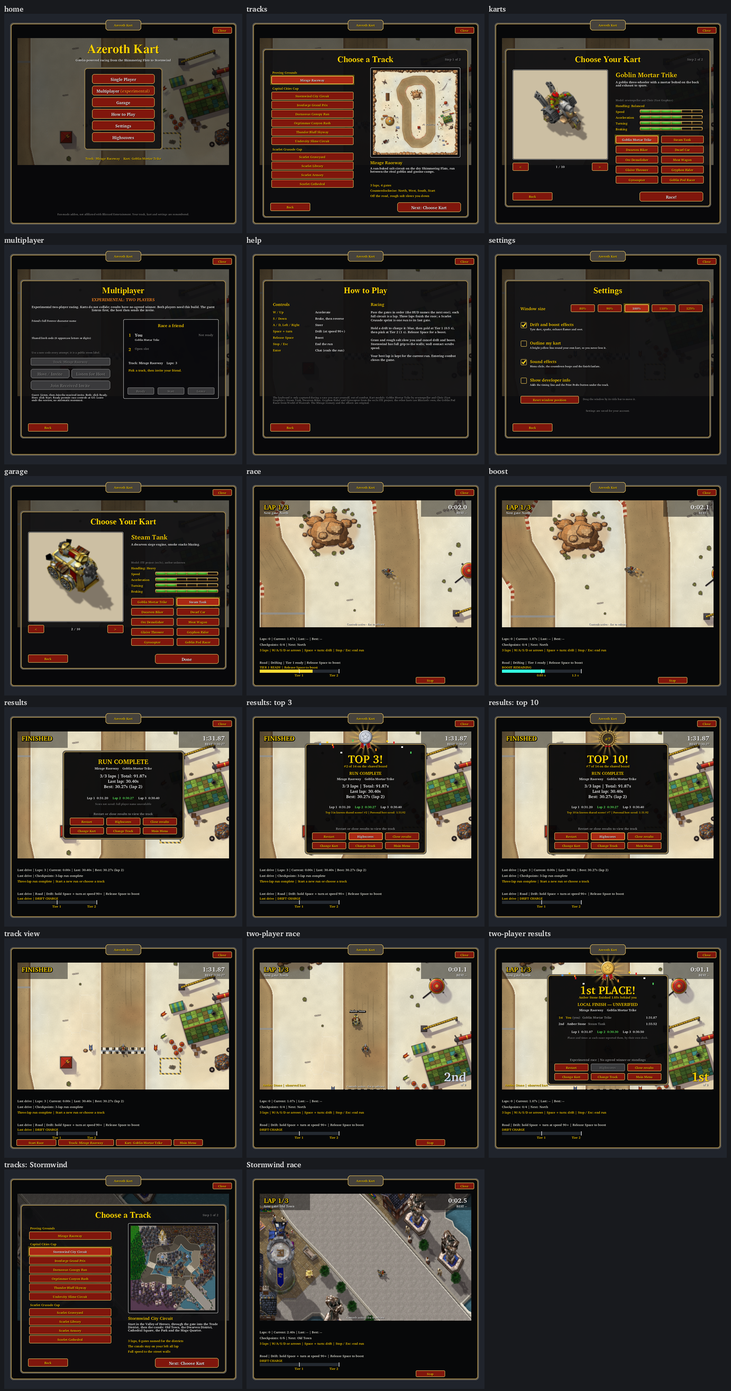
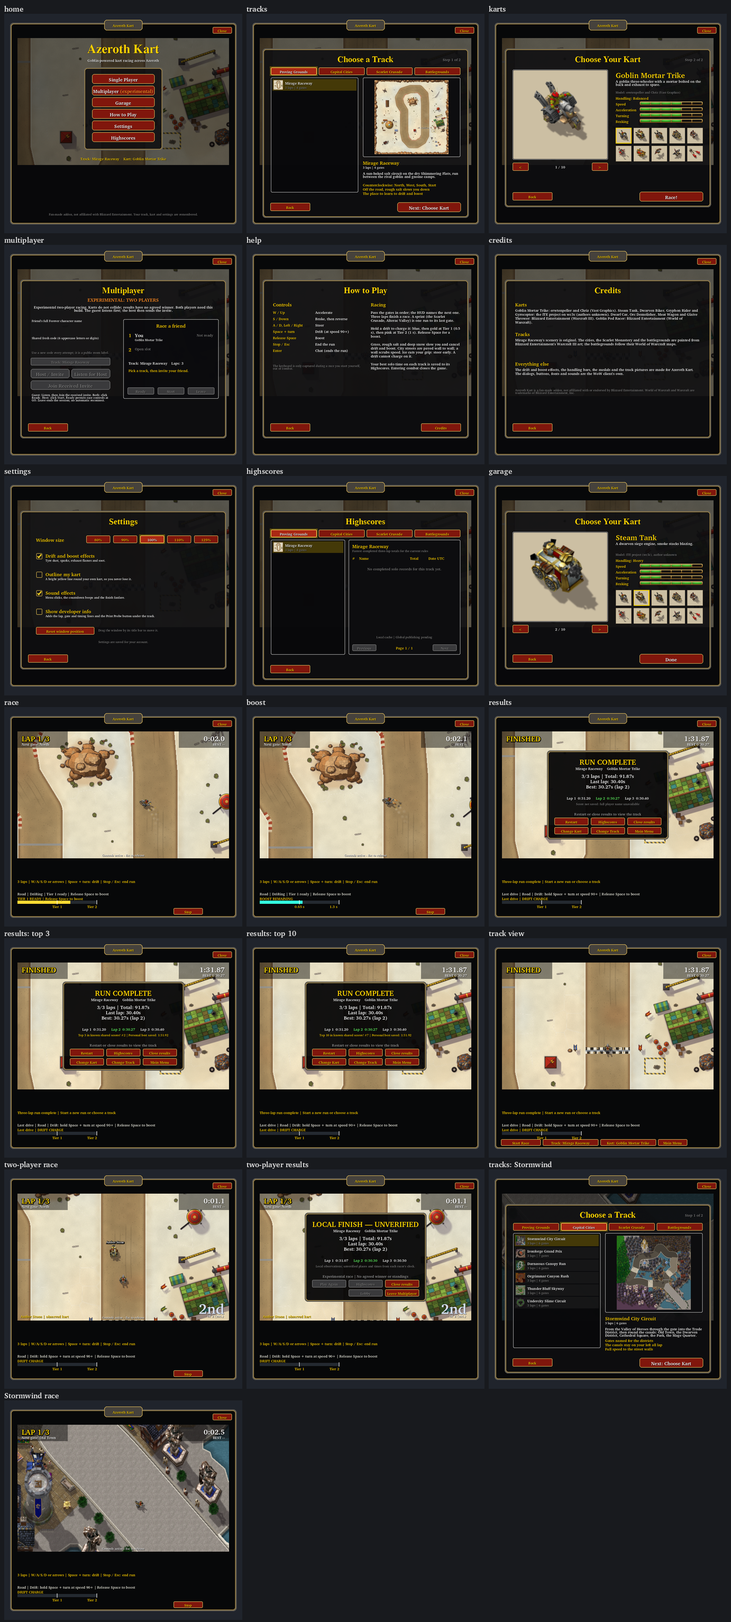
docs: menus for launch: audit, design and before/after
The audit of every screen (why the overlap got through, the new layout
check, each screen's findings), the design of the track and kart
browsers, the boards and the lines under the track, the proposals not
built (lobby track picker, Race Again, Next Track, multiplayer steps),
the contract and budget for Codex, the two atlases' provenance, the test
plan entry and the client check (NOT RUN). Before/after pictures and the
review sheets are rendered with stand-in fonts at the client's widths.

Claude-Session: https://claude.ai/code/session_01HqjE6kQMBEZCvc46ioimvY

diff --git a/docs/art/ui/menu-launch.md b/docs/art/ui/menu-launch.md
@@ -1,0 +1,177 @@
+# Menus for launch: audit and proposal
+
+**Status (2026-10-29):** proposed by Claude on `claude/menu-launch`, based on Codex's installed
+`codex/alterac-integration` (`fcd1273`). Everything below is checked offline only; in WoW Forever it is
+**NOT RUN** ([client check](#client-check-not-run)). The owner picks what goes into the launch; Codex
+reviews and integrates. The minimap icon is parked, as the owner asked.
+
+![Before and after: track, kart and highscores screens](menu-launch-menus.png)
+
+![Before and after: under the track, How to Play, main menu and the new Credits page](menu-launch-race-help.png)
+
+These pictures come from `scripts/preview_ui.py` (stand-in fonts measured at the client's widths, see
+below); they are layout pictures, not screenshots. The highscores board in them is a stand-in board.
+
+## What went wrong
+
+The owner's screenshot of the installed build: on **Choose a Track**, Alterac Valley's button sits under
+**Back**, and Arathi Basin's description runs into its facts. Three things let it through:
+
+1. **The list had no limit.** Each course added a button to a dialog of fixed height. The fourteenth
+   course, Alterac Valley (added by Claude's Alterac sprint), ran past the bottom.
+2. **Nothing checked where things land.** The tests count widgets and check behaviour. The preview picture
+   drew the screen, but its stand-in font measured about 13% narrower than the client's Friz Quadrata, so
+   copy wrapped onto fewer lines than in game; and the track screen's picture was not looked at again after
+   Alterac's row was added.
+3. **Copy had no measured limits.** Blurbs and facts were any length.
+
+## The check that now catches it
+
+`python scripts/preview_ui.py --check` (about five seconds; writes nothing unless asked) visits every menu
+screen with every track and every kart chosen, and the board of every track. It reports, per dialog: a
+control or text overlapping another, text cut short by its line limit, text hidden under a card drawn above
+it, and a control leaving its dialog. It exits 1 on any.
+
+- Text is measured as the client draws it: Friz Quadrata at 1.13 times its nominal size, calibrated on the
+  owner's screenshot. With that, both the client's font and the stand-in break every line of Arathi Basin's
+  copy where the client did. `--client-fonts DIR` uses the client's own `frizqt__.ttf` and `morpheus.ttf`
+  (extracted to `local-artifacts/`, never committed); the stand-ins give the same result.
+- **Installed build: 19 faults** (Alterac Valley under Back with each track chosen; Arathi Basin's and
+  Darnassus's copy overlapping). **Proposal: 0.**
+- Proposed rule: run it before handing over any menu, HUD or copy change ([test plan](../../TEST_PLAN.md)).
+
+## Audit, screen by screen
+
+| Screen | Finding | Proposal | State |
+|---|---|---|---|
+| Choose a Track | One button per course; the 14th is already past the dialog, and every new map adds one | Cup tabs, a pooled list of nine rows a page (paged beyond) with thumbnails, laps and gates; the details card with "Your best" | Prototyped |
+| Choose Your Kart, Garage | Ten name buttons fill the two-by-five grid; an eleventh kart has no room | Portrait grid, fifteen a page (paged beyond), icons made from each kart's own sheet, name in a tooltip | Prototyped |
+| Highscores | One **Track** button steps through fourteen boards one click at a time | The same cup tabs and track list beside the board | Prototyped |
+| Multiplayer | The lobby's **Track** button steps through fourteen tracks; the instructions read like a protocol | A track picker that opens inside the lobby (opening another screen leaves the session, so it must stay in the lobby); numbered steps | Proposed |
+| Race, under the track | Four lines repeat the race HUD and read like a debug console | The lap and gate lines only with developer info (the staged grid keeps its instruction line); the status line, the drift line and the meter stay | Prototyped |
+| How to Play | Out of date: only the Scarlet sprints, "Stormwind has full grip", "your best lap is kept for the current run"; no ice, deep snow or saved highscores. The credits paragraph misses most karts' and all the tracks' art | Rules rewritten; credits moved to a **Credits** page: every kart's model credit, the tracks' art, the Blizzard notice | Prototyped |
+| Main menu | The tagline, "from the Shimmering Flats to Stormwind", is out of date | "Goblin-powered kart racing across Azeroth"; later a **Race Again** quick start (last track and kart) | Tagline prototyped; quick start proposed |
+| Results | Works | Later: **Next Track** in the same cup | Proposed |
+| Settings | Works | A "Show minimap button" box when the icon comes | Parked |
+
+## The design
+
+### Choose a Track
+
+- **Cup tabs** along the top, in `Courses.CUPS` order, labelled by `Menu.CUP_LABELS` (a cup without one
+  shows its own name). Up to `Menu.CUP_TABS` (5) fit one row; a sixth cup needs a second row or tab
+  paging (not built).
+- **The list:** the shown cup's tracks, then its coming-soon courses (greyed, "Soon"), `Menu.TRACK_ROWS`
+  (9) a page, with **<** and **>** and "Page 1 of 2" only when a cup holds more. Each row: a 36-pixel
+  thumbnail, the name, and "3 laps | 6 gates" or "Sprint | 8 gates". The chosen track's row is gold. The
+  list opens on the chosen track's cup and page.
+- **The rows are pooled:** nine rows show any cup's page, so adding tracks or cups adds pages, never
+  widgets or height.
+- **Details:** the preview (280 pixels for a 320 cell, `Menu.PREVIEW_SIZE`), the name, the summary with
+  "Your best: 1:31.92" when the player has a time (one board read on a deliberate refresh), a blurb of at
+  most three lines and three one-line facts. `--check` enforces those limits; the copy was rewritten to fit
+  and keeps every reviewed keyword.
+
+### Choose Your Kart and the Garage
+
+- The turntable, name, description, credit and handling bars stay. The ten name buttons become **portrait
+  tiles**: five a row, `Menu.KART_TILES` (15) a page, paged beyond, pooled like the track rows.
+- Each tile shows the kart from its own sheet at the turntable's starting angle, on the stage's sand
+  colour, framed dark, or gold for the chosen kart. The name shows in a tooltip, and on the tile itself if
+  the icon picture cannot load.
+
+### Highscores
+
+- The same tabs and track list (a second pooled list) on the left; the board on the right: the track's
+  name, its rule line, ten rows, the scope line and the pages. It opens on the driving track's board (or
+  the results' run). Choosing a board never selects a driving track; each open, pick or page reads the
+  board once.
+
+### Under the track
+
+- Developer info off: the status line (controls, refusals), the drift and surface line and the drift meter.
+  Developer info on: also the lap, gate and timing lines. On a staged two-player grid the gate line stays,
+  because it carries "Hold W/Up for GO".
+
+### How to Play and Credits
+
+- Rules: gates and sprints (the Scarlet Crusade and Alterac Valley), the drift tiers, grass, rough salt and
+  deep snow, paved cities, ice (steer early; no drift charge on it), saved highscores, combat.
+- **Credits**, from How to Play: every kart's model credit as the [asset ledger](../ASSET_SOURCES.md)
+  records it, the tracks' art (Mirage original; the rest painted from Blizzard's Warcraft III art, the
+  battlegrounds following their World of Warcraft maps), the made-for-the-game pictures, the client's own
+  dialogs, fonts and sounds, and the fan-made/trademark notice. A test checks every kart in the roster is
+  named there. How the owner wants to be credited is his call.
+
+## Not built yet (for the owner to choose)
+
+- **Lobby track picker:** a pop-up list inside the multiplayer screen, setting only `Menu.lobbyTrackId`
+  (which the existing Host and rematch actions already send). Opening another screen from the lobby leaves
+  the session (`Menu.Show`), so it cannot reuse the track screen without a session change from Codex.
+- **Race Again** on the main menu: the remembered track and kart straight to the countdown, the same call as
+  **Race!**.
+- **Next Track** on the results: the next track in the same cup, to Choose Your Kart or straight to the
+  countdown.
+- **Multiplayer copy** as numbered steps (both enter the same fresh code; guest listens, host invites;
+  both Ready; host Start), keeping "experimental".
+- **Minimap icon:** parked.
+
+## Contract and budget
+
+Scope: `Menu.lua` and `tests/test_menu.lua` (Claude); `tests/test_ui.lua` budget constants and its Test
+Oval list check (shared, visual counts only); `scripts/preview_ui.py`; two new build scripts and their
+atlases. No simulation, race, session, score or saved-data behaviour changes.
+
+- **Removed:** `Menu.view.trackButtons`, `soonButtons`, `kartButtons`, `highscoreTrack`;
+  `Menu.highscoreTrackIndex`.
+- **Added:** `Menu.TrackRow(id)` (turns the shown list to a track's cup and page; its row) and
+  `Menu.KartTile(id)`; `Menu.view.trackList`, `boardList`, `kartTiles`; `Menu.boardTrackId` and
+  `Menu.boardRequest` (the board shown, and the results' request); `Menu.cupRows`, `Menu.trackSummary`;
+  `Menu.TRACK_ROWS`, `CUP_TABS`, `CUP_LABELS`, `TRACK_THUMBS`, `KART_ICONS`, `KART_TILES`,
+  `PREVIEW_SIZE`, `CREDITS`. Each `Menu.TRACKS` entry gains `laps` and `gates`; a test checks them
+  against every built course.
+- **Objects:** 93/99/151 → **121 frames, 213 textures, 230 font strings**, all created once with the
+  window, and now the same for any number of tracks, cups and karts (before, each track and each kart
+  added a frame). Two lists of four tabs, a card, two page buttons, nine rows (a button, three textures,
+  three labels) and a page label; fifteen tiles (a button, four textures, a label); the board's card;
+  the Credits page.
+- **Texture memory:** `TrackThumbs.tga` 1 MiB when a track list first shows; `KartIcons.tga` 2 MiB
+  when the kart screen first opens. Each loads once; a refused load is not retried.
+
+## New pictures (made from the game's own, no new art)
+
+- `Assets/UI/KartIcons.tga` (1024×512, 128-texel cells, eight a row, room for 32 karts) by
+  `scripts/build_kart_icons.py`: each kart's own sheet's frame for a heading of 315°, centred and, when
+  far from 104 texels across, scaled to it. Its pixels are the sheets', so each cell keeps its sheet's
+  source, terms and credit.
+- `Assets/UI/TrackThumbs.tga` (512×512, 64-texel cells, eight a row, room for 64 tracks) by
+  `scripts/build_track_thumbs.py`: the middle square of each track's preview, averaged down in whole
+  blocks. Each cell keeps its preview's source and terms.
+- Both scripts have `--check` (exact bytes) and `--preview OUT.png`.
+
+## Tests run (offline)
+
+- `python scripts/test_lua.py --runtime lua51 --tests <each>`: all 53 test files pass.
+- `python scripts/test_lua.py --runtime lua54 --tests menu ui`: pass.
+- `python scripts/preview_ui.py --check`, and with `--client-fonts`: 0 faults (the installed build: 19).
+- `python scripts/build_kart_icons.py --check`, `python scripts/build_track_thumbs.py --check`: pass.
+- New in `test_menu`: the summaries against every built course; a row per track in its cup; thumbnail
+  and icon cells; pooled rows and tiles (no new objects when turning cups, pages or karts); a refused icon
+  atlas showing names, not retried; coming-soon rows disabled and inert; boards picked from the list
+  (never selecting a driving track); the lines under the track with and without developer info and on a
+  staged grid; How to Play to Credits and back, every kart credited.
+
+## Client check (NOT RUN)
+
+Fully restart the client after installing (two new pictures). Then:
+
+1. **Single Player:** four cup tabs; each cup's rows with thumbnails; Battlegrounds lists Warsong Gulch,
+   Arathi Basin and Alterac Valley inside the list, clear of **Back**; Arathi's copy reads in separate
+   lines.
+2. **Next:** the kart portraits show each kart; the mouse over one names it; a click chooses it and
+   frames it in gold.
+3. **Highscores:** tabs, list and board; a long name ends in "..."; the dates fit.
+4. A race: under the track only the gold status line, the drift line and the meter; with developer info,
+   the lap, gate and timing lines too.
+5. **How to Play → Credits → Back.**
+6. `/akart probe` with developer info: 121/213/230.

diff --git a/docs/art/ui/front-end.md b/docs/art/ui/front-end.md
@@ -2,6 +2,8 @@
 
 **Status (2026-10-22):** reviewed Claude UI `1b2d3d5` is integrated with Codex backend `192c6de` by merge `6cd611a` on `codex/ui-backend-integration`. Claude's isolated preference fix `4ffe184` is retained as `9b22f12`; city merge f9f2af0 now includes reviewed Stormwind from78d97a1, followed by the protected background-load transaction. The implemented interfaces are in [API_CONTRACTS](../../API_CONTRACTS.md#implemented-front-end-menus-race-hud-and-results). Its appearance and behaviour in WoW Forever are **NOT RUN**; see [the client check](#client-check-not-run).
 
+**Launch refresh (2026-10-29, proposed on `claude/menu-launch`, NOT RUN):** the track screen's list ran past its dialog at fourteen courses. Cup tabs and pooled, paged track lists with thumbnails (the track screen and Highscores), a pooled portrait grid for the karts, the lap and gate lines under the track only with developer info, rewritten How to Play and a Credits page, and a layout check (`preview_ui.py --check`) that walks every screen. The rows below describe it; the audit, the before/after pictures and the open proposals are in [menu-launch](menu-launch.md).
+
 The owner asked for "the ready to ship UI": clear Single Player and Multiplayer choices, and selecting maps and karts. He chose:
 
 - the client's own **Classic WoW dialogs** style;
@@ -32,17 +34,18 @@ open window ─► Main menu ─► Single Player ─► Choose a Track ─► C
 | Screen | Offers |
 |---|---|
 | Main menu | The "Azeroth Kart" title, then **Single Player**, **Multiplayer (soon)**, **Garage**, **How to Play** and **Settings**, with the current track and kart named underneath |
-| Choose a Track | Mirage Raceway and Test Oval, each with a preview picture, a short description and its facts (3 laps, 4 gates, direction, off-road). Choosing one applies it at once; **Next: Choose Kart** continues |
-| Choose Your Kart | A turntable that spins the chosen kart's own 64-heading sheet (the Gryphon Rider beating its wings, then gliding), arrows and a grid of all ten karts (five rows of two), the kart's description and model credit, its handling profile's name and four gold-framed **stat bars**, Speed, Acceleration, Turning and Braking, filled from the profile's actual values ([below](#new-art-kart-stat-bars); `claude/kart-stat-bars`). **Race!** starts the countdown |
+| Choose a Track | Cup tabs (Proving Grounds, Capital Cities, Scarlet Crusade, Battlegrounds) over the shown cup's tracks, nine rows a page with a thumbnail, the name and "3 laps \| 6 gates" (or "Sprint \| 8 gates"); coming-soon courses greyed. Beside them the chosen track's preview, name, summary with the player's best, a blurb of up to three lines and three one-line facts. Choosing one applies it at once; **Next: Choose Kart** continues ([launch refresh](menu-launch.md)) |
+| Choose Your Kart | A turntable that spins the chosen kart's own 64-heading sheet (the Gryphon Rider beating its wings, then gliding), arrows and a grid of portrait tiles (five a row, fifteen a page; the name in a tooltip; [launch refresh](menu-launch.md)), the kart's description and model credit, its handling profile's name and four gold-framed **stat bars**, Speed, Acceleration, Turning and Braking, filled from the profile's actual values ([below](#new-art-kart-stat-bars); `claude/kart-stat-bars`). **Race!** starts the countdown |
 | Garage | The same kart choice from the main menu, with **Done** instead of Race! |
 | Multiplayer | **COMING SOON**. Disabled **Host a Race** and **Join a Race**, a disabled lobby preview (you, an open slot, track, Ready/Start/Leave), and how to help with today's connection test (`/akart net help`) |
-| How to Play | The controls and the racing rules, plus the model credits |
+| How to Play | The controls and the racing rules; **Credits** opens a page with every kart's model credit, the tracks' art and the Blizzard notice |
+| Highscores | The same cup tabs and track list as the track screen beside the chosen board: its rule line, ten rows (the player's in gold), the scope and pages |
 | Settings | Window size (80–125%; sizes that would not fit the screen are disabled), drift and boost effects, **Outline my kart** (a bright yellow line round your own kart; [outlines](../karts/outlines.md), since 2026-10-23), sound effects, developer info (the timing line and Print Probe), and reset window position. The window can be dragged by its title bar |
 | Race | Big **LAP x/3** and the next gate at top left. The clock in tenths and the best lap at top right. "Controls active - Esc to release" at the bottom. A large gold 3-2-1-GO. **Stop** sits away from where Start was, so a double click cannot start and stop. In a two-player race, the place ("1st"/"2nd", "of 2") at bottom right and the friend's name over their kart ([race screens](#race-screens-and-score-celebrations), `claude/race-screens`) |
 | Results | A dark dialog with the result title, track and kart, total/last/best times and every lap time, the fastest in green. **Restart**, **Highscores** (the run's board at the player's page) and **Close results**, then **Change Kart**, **Change Track** and **Main Menu**. A top-ten best on the shared board, or a two-player place, adds a banner, a medal or wreath on a sunburst and confetti; a two-player race lists both racers ([race screens](#race-screens-and-score-celebrations)) |
 | Track view (after Close results) | The frozen run and its HUD, with **Start Race**, **Track**, **Kart** and **Main Menu** on the bar |
 
-The UI's own HUD lines keep their rows and text: laps, checkpoints, status, drift feedback and the meter. They gain colours: white detail, gold status. The timing line shows only with developer info.
+The UI's own HUD lines keep their rows and text: laps, checkpoints, status, drift feedback and the meter. They gain colours: white detail, gold status. The timing line shows only with developer info; since the launch refresh, so do the lap and gate lines (they repeat the race HUD), except the gate line on a staged two-player grid.
 
 ## Look: the client's own dialogs
 

diff --git a/docs/API_CONTRACTS.md b/docs/API_CONTRACTS.md
@@ -1036,6 +1036,18 @@ On `claude/arathi-v2` (base Codex's `codex/arathi-integration` `1fbea6b`, instal
 - **Fewer fences (painting only, after the owner's second look):** the painted timber fence is left out along eight stretches of the street's edge he lined in red (`open_edges` in the layout: a side of the lap from one place to another; 87% of the fence), so the cliffs, the river and the long grass beyond the verge mark the edge there. No contract change: the walls (`wallRadius`, `wallVertices`, narrows, plazas) and `Battlegrounds.lua` are byte-identical, trackVersion stays 2, and collision never reads the picture. A kart still stops where the fence stood; whether that reads as natural in the client is NOT RUN (if the owner would rather karts run out onto slow grass there, that is a geometry and physics change for Codex).
 - **Codex-owned tests, pins only (for review):** `test_peer_session` (Arathi `trackVersion` 2; 1 incompatible), `test_multiplayer_integration` (the offer's `trackVersion` 2), `test_arathi_guide` (Arathi hands no route to the arrow: the guide-round-a-solid regression keeps Arathi's geometry with the yard paved, as version 1 had it, and its route from the data). A failure already on `codex/arathi-integration` is fixed in `test_dungeon` (the Track button now steps from Warsong to Arathi, then to Mirage).
 
+### Proposed: menus for launch (Claude, `claude/menu-launch`, 2026-10-29, for Codex)
+
+The owner found Alterac Valley's track button under **Back** in the installed build and asked for the whole menu to be refined for launch, with "a lot more maps and karts ahead". Presentation only; the [audit and design](art/ui/menu-launch.md) has the details and before/after pictures. Client behaviour is **NOT RUN**.
+
+- **Scope.** `Menu.lua` and `tests/test_menu.lua` (Claude). Shared, for review: `tests/test_ui.lua`'s menu budget constants and its Test Oval check (now: no row in any cup's list); `scripts/preview_ui.py` (the layout check). New: `scripts/build_kart_icons.py`, `scripts/build_track_thumbs.py` and their atlases `Assets/UI/KartIcons.tga`, `Assets/UI/TrackThumbs.tga` (made from the existing kart sheets and track previews). No UI.lua, simulation, race, session, score or saved-data change.
+- **Track screen and Highscores.** One pooled track list each: the cups as tabs (`Courses.CUPS`, labels `Menu.CUP_LABELS`, at most `Menu.CUP_TABS`), the shown cup's tracks then its coming-soon courses as `Menu.TRACK_ROWS` (9) rows a page, paged beyond. `Menu.cupRows(cupId)` lists a cup's rows; `Menu.trackSummary(track)` is "3 laps | 6 gates" or "Sprint | 8 gates" from new `laps`/`gates` fields in `Menu.TRACKS` (checked against every built course). `Menu.TrackRow(id)` turns the shown list to a track's cup and page and returns its row (tests). Highscores keeps `Menu.highscorePage`, `Menu.ShowBoard(trackId)` and one `SoloRecords.GetView` per open, pick or page; the board shown is `Menu.boardTrackId` (the results ask through `Menu.boardRequest`), replacing `Menu.highscoreTrackIndex` and the cycling `Menu.view.highscoreTrack`. Choosing a board never calls `UI.SelectTrack`.
+- **Kart screen.** `Menu.KART_TILES` (15) pooled portrait tiles a page, cells of `Menu.KART_ICONS` in `Presentation.KART_ORDER`; `Menu.KartTile(id)` returns a kart's tile (tests). `Menu.view.trackButtons`, `soonButtons` and `kartButtons` are gone.
+- **Under the track.** `Menu.Sync` shows `UI.lapHud` and `UI.checkpointHud` only with developer info, and the checkpoint line also on a staged grid (it carries "Hold W/Up for GO"). Their text, and the code that writes it, are unchanged.
+- **Copy.** How to Play's rules are rewritten; a **Credits** page (`Menu.CREDITS`) is reached from it; the tagline changes.
+- **Counts.** 93/99/151 → **121 frames, 213 textures, 230 font strings**, created with the window and now independent of the catalogue's size: two lists (four tabs, a card, two page buttons, nine rows of a button, three textures and three labels, a page label), fifteen tiles (a button, four textures, a label), the board's card and the Credits page. Texture memory: 1 MiB thumbnails, 2 MiB icons, each loaded once on first use.
+- **For Codex.** The lobby's track choice still steps with `Courses.next`; a picker inside the lobby is proposed, not built, because `Menu.Show` leaves the session when the lobby opens another screen.
+
 ### Proposed: Arathi Basin, a Battlegrounds Cup circuit (Claude, 2026-10-28, for Codex)
 
 On `claude/arathi-basin` (base `claude/warsong-v3` `5cee515`). Listed as **coming soon**: nothing builds or races it until Codex assigns its IDs. No Circuit, Physics, Checkpoints, protocol or score code change. Client NOT RUN. [Sheet](art/tracks/arathi-basin.md).

diff --git a/docs/TEST_PLAN.md b/docs/TEST_PLAN.md
@@ -206,6 +206,14 @@ On `claude/warsong-layout` (Warsong Gulch, listed as coming soon; focused: `pyth
 
 `build_battlegrounds.py` also checks what `LayeredTrack.new` checks at load, the dungeons' rules on each floor (no invisible wall, rooms that do not meet stay apart, gates from wall to wall), the new ramp rule (a room meets a ramp only where its own floor leaves it), and that no model that is not solid stands where the karts drive. The look, the roofs and their fades, the arrow, the drive and a two-player race on Warsong in the client are NOT RUN; Warsong cannot be selected in the client until Codex registers it.
 
+On `claude/menu-launch` (the menus for launch; focused: `python scripts/test_lua.py --runtime lua51 --tests menu ui presentation`, then the full Lua 5.1 suite; layout: `python scripts/preview_ui.py --check`; art bytes: `python scripts/build_kart_icons.py --check` and `python scripts/build_track_thumbs.py --check`):
+
+- **Layout check, for every menu, HUD or copy change:** `scripts/preview_ui.py --check` (about five seconds, writes nothing) walks every menu screen with every track and every kart chosen and every track's board, measuring text at the client's widths. It fails on a control or text overlapping another in its dialog, text cut short by its line limit, text hidden under a card drawn above it, or a control leaving its dialog. The installed build before this slice: 19 faults (Alterac Valley under Back; Arathi Basin's and Darnassus's copy). `--client-fonts DIR` uses the client's own fonts from `local-artifacts/` (never committed); the stand-ins give the same result.
+- `tests/test_menu.lua`: each track's "laps | gates" summary against its built course; one row per track in its own cup; the rows' thumbnail cells and the tiles' icon cells; pooled rows and tiles (no objects created turning cups, pages or karts); a refused icon atlas showing the karts' names, not retried; coming-soon rows disabled and inert; boards chosen from the list without selecting a driving track, each with its rule line; the lines under the track with and without developer info and on a staged grid; How to Play to Credits and back, every kart in the roster credited. The budget becomes 121/213/230, the same for any number of tracks, cups and karts.
+- `tests/test_ui.lua`: the same budget (the menus' constants; cups add no widgets now) and the retired Test Oval absent from every cup's list. Codex's assertions are unchanged.
+
+The menus in the client are NOT RUN; see [the launch refresh's client check](art/ui/menu-launch.md#client-check-not-run).
+
 ## Current front-end slice (proposed, `claude/ui-flow`)
 
 Focused command: `python scripts/test_lua.py --runtime lua51 --tests menu ui presentation`; art bytes: `python scripts/build_ui_art.py --check`. `tests/test_menu.lua` runs the addon against a widget mock that passes Show/Hide on to child frames, like the client. It covers the main menu and one dialog at a time; browsing without changing the run, track or kart; the Single Player flow, including a refused start; every results path, the track view and the lap list; the garage turntable; settings (sizes that do not fit, effects off, sound mute); saved preferences, failed restores and unknown or newer records; the coming-soon lobby and a mapped PeerSession view; Alt+Z versus a real close; the combat track restore; the build fallback; and missing templates. `tests/test_ui.lua` keeps Codex's assertions; only its counts, module list, results-panel size and a Lua 5.4 `unpack` call changed. Explicit counts become 65 frames/160 textures/79 font strings (11/151/13 without the front end). The menus' client appearance and sounds are NOT RUN; see [the front-end client check](art/ui/front-end.md#client-check-not-run).

diff --git a/docs/art/ASSET_SOURCES.md b/docs/art/ASSET_SOURCES.md
@@ -88,6 +88,8 @@ The kart screen's stat-bar atlas, `addon/AzerothKart/Assets/UI/StatBars.tga` (20
 
 The results' celebration atlas, `addon/AzerothKart/Assets/UI/Celebration.tga` (2026-10-26, `claude/race-screens`, proposed), is original project art. `scripts/build_celebration_art.py` paints it from numbers alone (signed distances, gradients and supersampling): a soft sunburst, gold, silver and bronze medals with a faceted star on crimson ribbon tails, and a laurel wreath round a dark disc with a crimson bow, in the gold-and-crimson style of the client's achievement and loot frames. No Blizzard, Mario Kart, Crash Team Racing, other third-party or generated-image input. Authorship/source: Claude for Azeroth Kart; intended use: the results' celebrations. [The front-end sheet](ui/front-end.md#race-screens-and-score-celebrations) records its layout and build commands; its SHA-256 is printed by `--check`. The celebrations' sounds (`UI_EPICLOOT_TOAST`, `IG_QUEST_LIST_COMPLETE`) and fonts (`Game42Font`, `Game36Font`, `Game48Font`) are the installed client's own, referenced by name and never shipped.
 
+The kart screen's portrait atlas, `addon/AzerothKart/Assets/UI/KartIcons.tga` (2026-10-29, `claude/menu-launch`, proposed), adds no new art: `scripts/build_kart_icons.py` copies each runtime kart sheet's frame for a heading of 315° (the turntable's starting pose) into a 128-texel cell, centred and, when far from 104 texels across, scaled by a bilinear average. Each cell therefore keeps its sheet's source, author, terms and credit as recorded above and in [the roster](karts/roster.md); redistribution stays **unresolved** wherever it is for the sheet. The track lists' thumbnail atlas, `addon/AzerothKart/Assets/UI/TrackThumbs.tga` (same date and branch), likewise adds none: `scripts/build_track_thumbs.py` averages the middle square of each track's own menu preview down to 64 texels, so each cell keeps its preview's source and terms (original for Mirage Raceway; Blizzard Entertainment's Warcraft III art under [ADR 0009](../adr/0009-warcraft-iii-asset-reuse.md) for the rest, redistribution **unresolved**). Both scripts verify their exact bytes with `--check`; [the launch refresh](ui/menu-launch.md) records their layout and memory.
+
 The default runtime kart since 2026-10-20, `addon/AzerothKart/Assets/Karts/GoblinMortarTrike.tga`, is rendered from the Warcraft III **Goblin Mortar Trike** model and texture by erwtenpeller and Chriz (Vast Graphics). It was fetched from the WC3Vault listing above on the owner's request.
 
 - **Files and hashes:** archive `GoblinMortarTrike_Updated_.rar`, SHA-256 `f0b4341c…b86b`; `GoblinMortarTrike[unit].MDX` and `GoblinMortarTrike.blp` are used.
